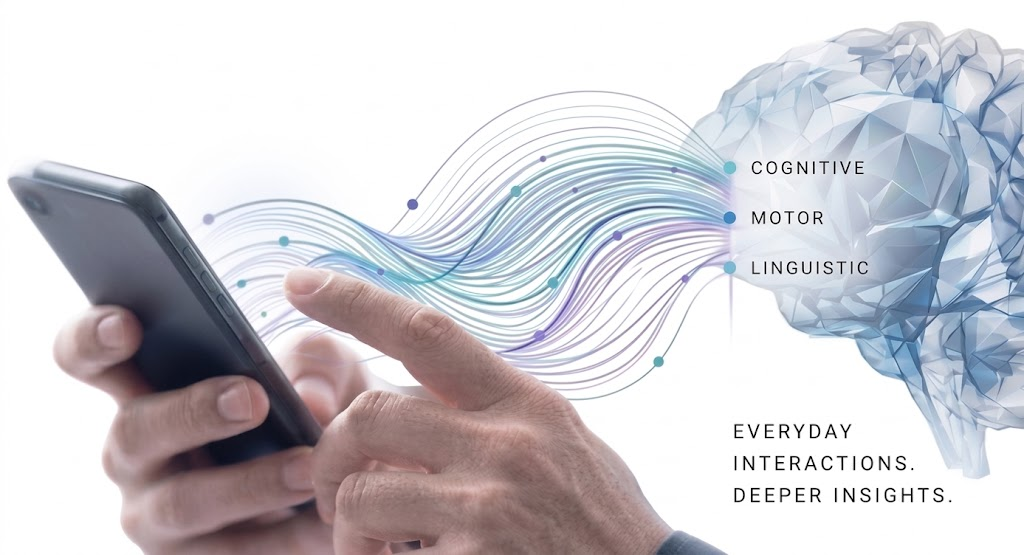
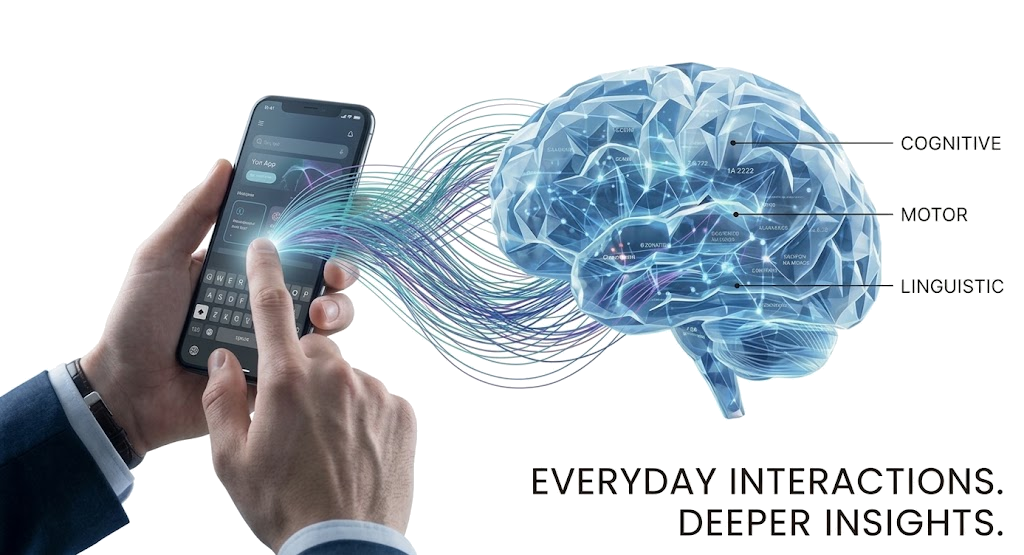
small improvement to the hero-visual image.

diff --git a/index.html b/index.html
@@ -173,19 +173,12 @@
     .hero-visual {
       position: relative;
       line-height: 0;
-      -webkit-mask-image: linear-gradient(to right, transparent 0%, #000 8%, #000 92%, transparent 100%),
-                           linear-gradient(to bottom, transparent 0%, #000 10%, #000 90%, transparent 100%);
-      -webkit-mask-composite: source-in;
-      mask-image: linear-gradient(to right, transparent 0%, #000 8%, #000 92%, transparent 100%),
-                  linear-gradient(to bottom, transparent 0%, #000 10%, #000 90%, transparent 100%);
-      mask-composite: intersect;
     }
 
     .hero-visual img {
       display: block;
       width: 100%;
-      height: 100%;
-      object-fit: cover;
+      height: auto;
     }
 
     /* ---------- Visits / already moving section ---------- */
